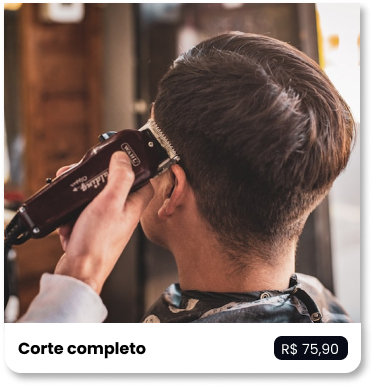
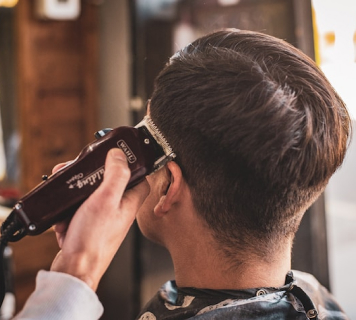
create services

diff --git a/src/components/services/styles.tsx b/src/components/services/styles.tsx
@@ -1,1 +1,64 @@
-import styled from "styled-components";
+import styled from 'styled-components';
+
+
+export const ServicesContainer = styled.section `
+    width: 100%;
+    height: 700px;
+    padding: 0.8rem;
+    display: flex;
+    justify-content: center;
+    flex-direction: column;
+    align-items: center;
+`;
+export const Title = styled.span `
+    font-size: 3rem;
+    font-weight: bold;
+
+`;
+
+export const Paragrapth = styled.p `
+    font-size: 1.2rem; 
+    width: 600px;
+    text-align: center;
+    line-height: 40px;
+`;
+
+export const CardContainer = styled.div `
+    margin-top: 20px;
+    width: 600px;
+    display: flex;
+    justify-content: space-around;
+    height: 400px;
+    gap: 20px;
+    align-items: center;
+`;
+
+export const CardComponent = styled.div `
+    height: 380px;
+    border-radius: 10px;
+`;
+
+export const  ImgCard = styled.img `
+    background-attachment: fixed;
+    background-size: cover;
+`;
+
+export const Description = styled.div `
+    border-radius: 5px;
+    padding: 0.5rem;
+    display: flex;
+    justify-content: space-between;
+    height: 40px;
+    width: 100%;
+    align-items: center;
+    font-weight: bold;
+
+`;
+
+export const Price = styled.span `
+    background-color: #000;
+    padding: 0.3rem;
+    border-radius: 5px;
+    color: #fff;
+    font-weight: 100;
+`;

diff --git a/src/components/services/index.tsx b/src/components/services/index.tsx
@@ -1,8 +1,43 @@
-import { } from './styles';
+import Corte1 from '../../assets/images/service1.jpg';
+import Corte2 from '../../assets/images/service2.jpg';
+import Corte3 from '../../assets/images/service3.jpg';
+import { CardComponent, CardContainer, Description, ImgCard, Paragrapth, Price, ServicesContainer, Title } from './styles';
 
 
 
-
+function Services () {
+	return (
+		<ServicesContainer>
+			<Title>Serviços</Title>
+			<Paragrapth>
+            Lorem ipsum dolor sit amet consectetur. Etiam mus vitae lectus proin pellentesque mattis iaculis. In viverra accumsan sagittis tempus duis a. Sagittis mollis a eu urna eget id.
+			</Paragrapth>
+			<CardContainer>
+				<CardComponent>
+					<ImgCard src={Corte1} />
+					<Description>
+						<p>Corte de Cabelo</p>
+						<Price>R$ 35,00</Price>
+					</Description>
+				</CardComponent>
+				<CardComponent>
+					<ImgCard src={Corte2} />
+					<Description>
+						<p>Corte Completo</p>
+						<Price>R$ 64,00</Price>
+					</Description>
+				</CardComponent>
+				<CardComponent>
+					<ImgCard src={Corte3} />
+					<Description>
+						<p>Corte & Barba</p>
+						<Price>R$ 85,00</Price>
+					</Description>
+				</CardComponent>
+			</CardContainer>
+		</ServicesContainer>
+	);
+}
 
 
 

diff --git a/src/components/about/styles.tsx b/src/components/about/styles.tsx
@@ -19,6 +19,7 @@ export const ImgsClients = styled.div `
     width: 600px; 
     img{
         position: relative;
+        background-attachment: fixed;
         pointer-events: none;
     }
 `;
@@ -26,7 +27,7 @@ export const Img1 = styled.img `
     bottom: 100px;
 `;
 export const Img2 = styled.img `
-bottom: 50px;
+bottom: 80px;
     
 `;
 export const Img3 = styled.img `

diff --git a/src/App.tsx b/src/App.tsx
@@ -1,6 +1,7 @@
 import About from './components/about';
 import Banner from './components/banner';
 import Header from './components/header';
+import Services from './components/services';
 
 function App() {
 	return (
@@ -8,6 +9,7 @@ function App() {
 			<Header />
 			<Banner />
 			<About />
+			<Services />
 		
 		</>
 	);

diff --git a/src/global-styles/colors-global.tsx b/src/global-styles/colors-global.tsx
@@ -3,3 +3,4 @@ export const buttonbg = '#F0B35B';
 export const buttonhover = '#d9a864';
 export const aboutbg = '#0D121E';
 export const servicesbg  = '#';
+export const teambg = '#080B16';

diff --git a/src/components/team/index.tsx b/src/components/team/index.tsx
@@ -1,0 +1,11 @@
+import { } from './styles';
+
+
+
+
+
+
+
+
+
+export default Team;
